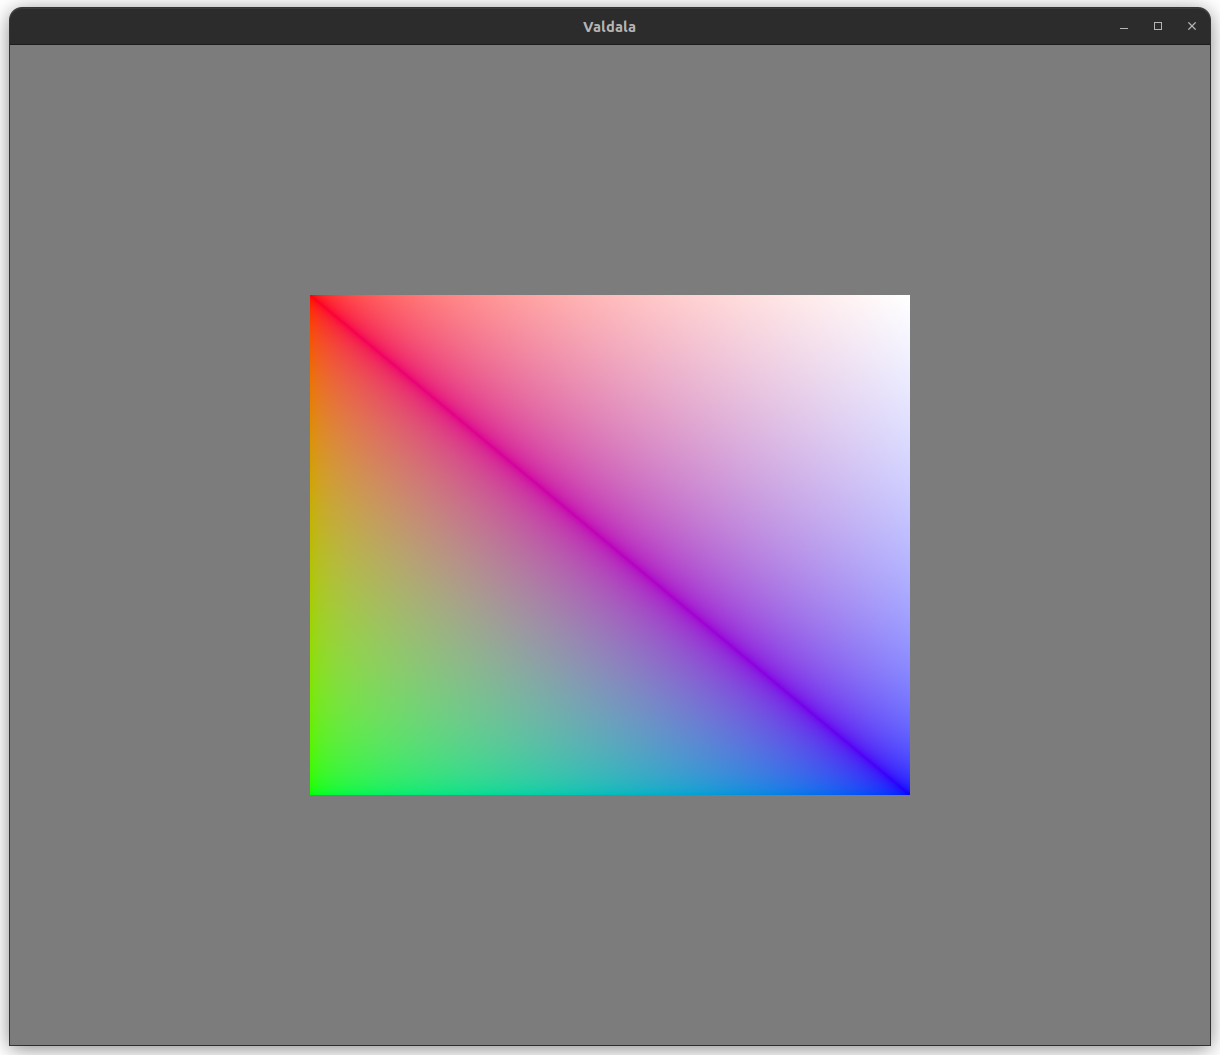
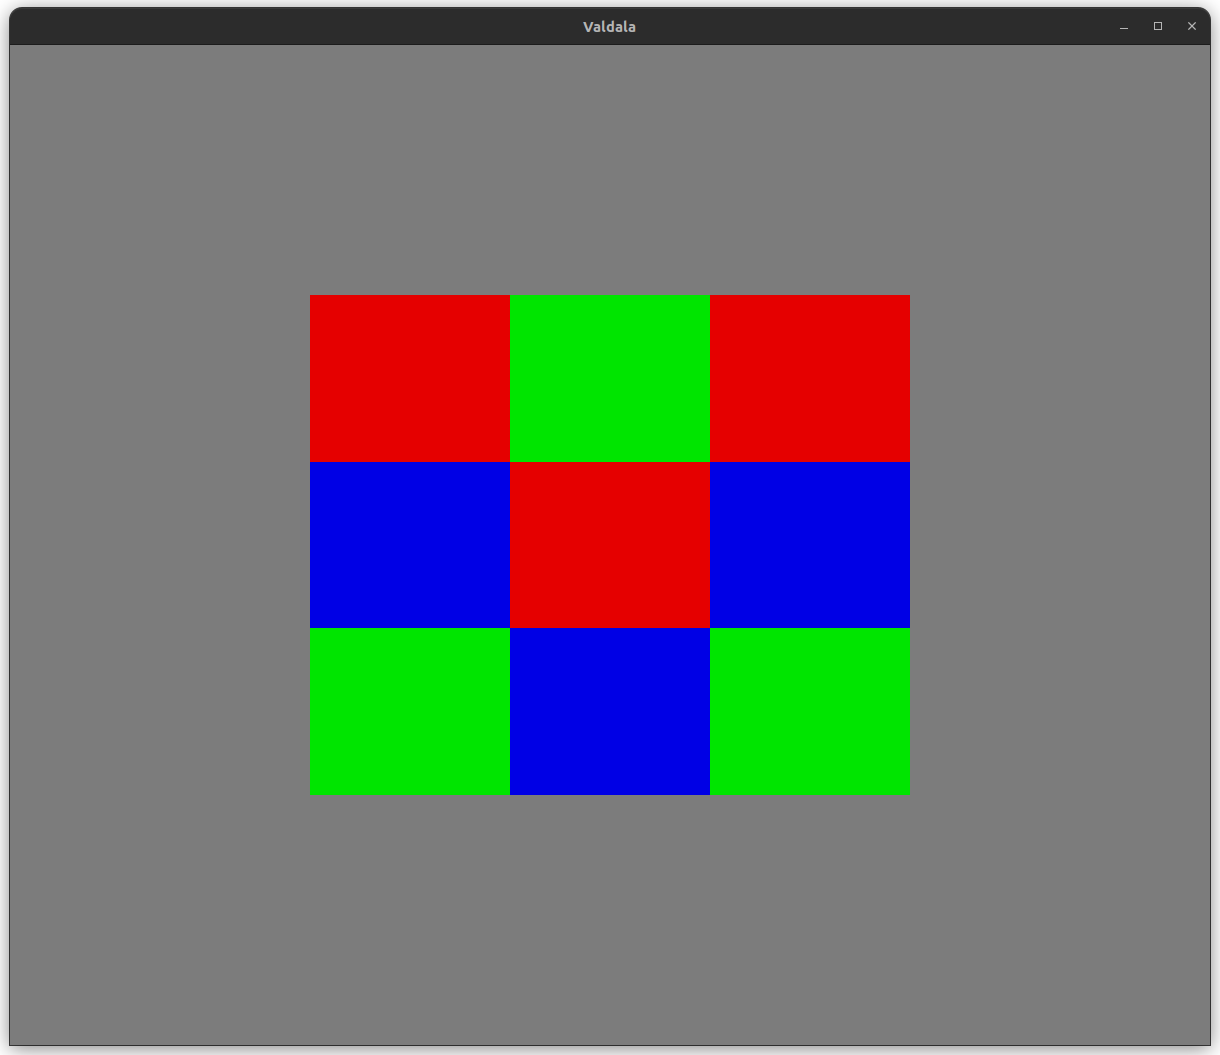
update state

Changed region(s): [[0.2492, 0.273, 0.7475, 0.7583]]

diff --git a/README.md b/README.md
@@ -3,6 +3,8 @@
 Not much to look at, yet.
 But the WebGPU bindings are working!
 
+Textures work. Loading from PNG is... quirky.
+
 ![Screenshot of current development state](screenshot.png)
 
 
